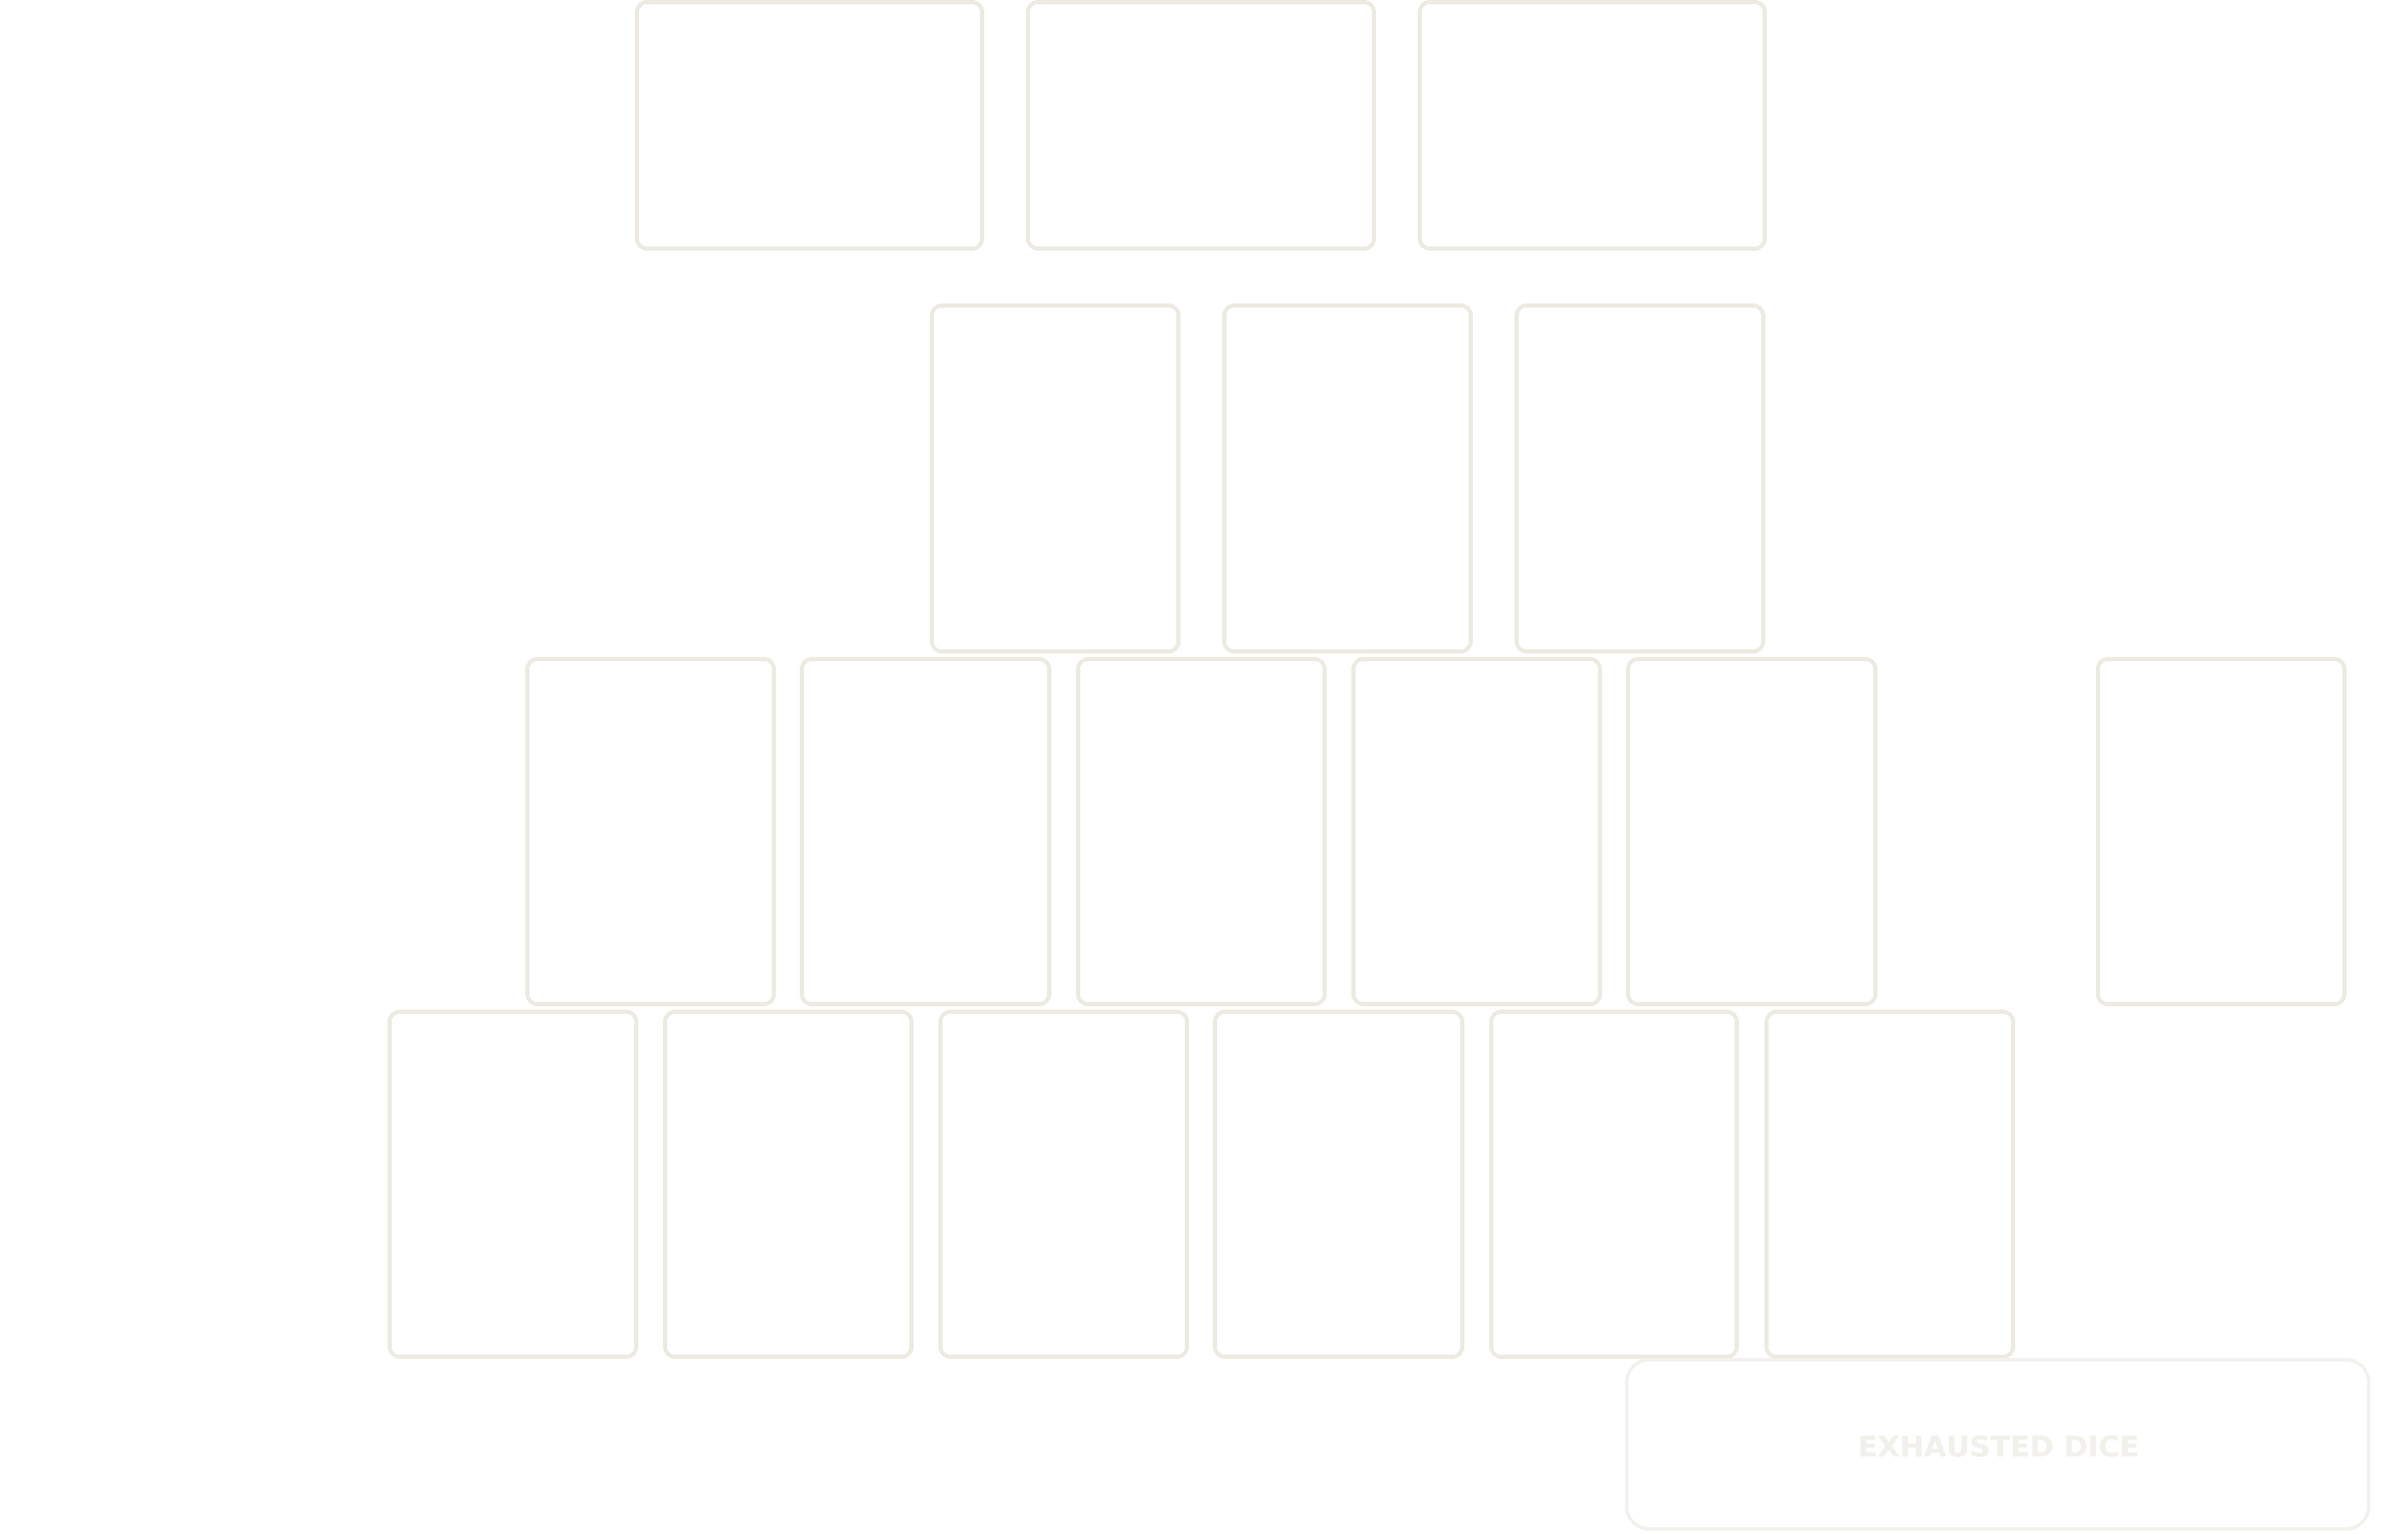
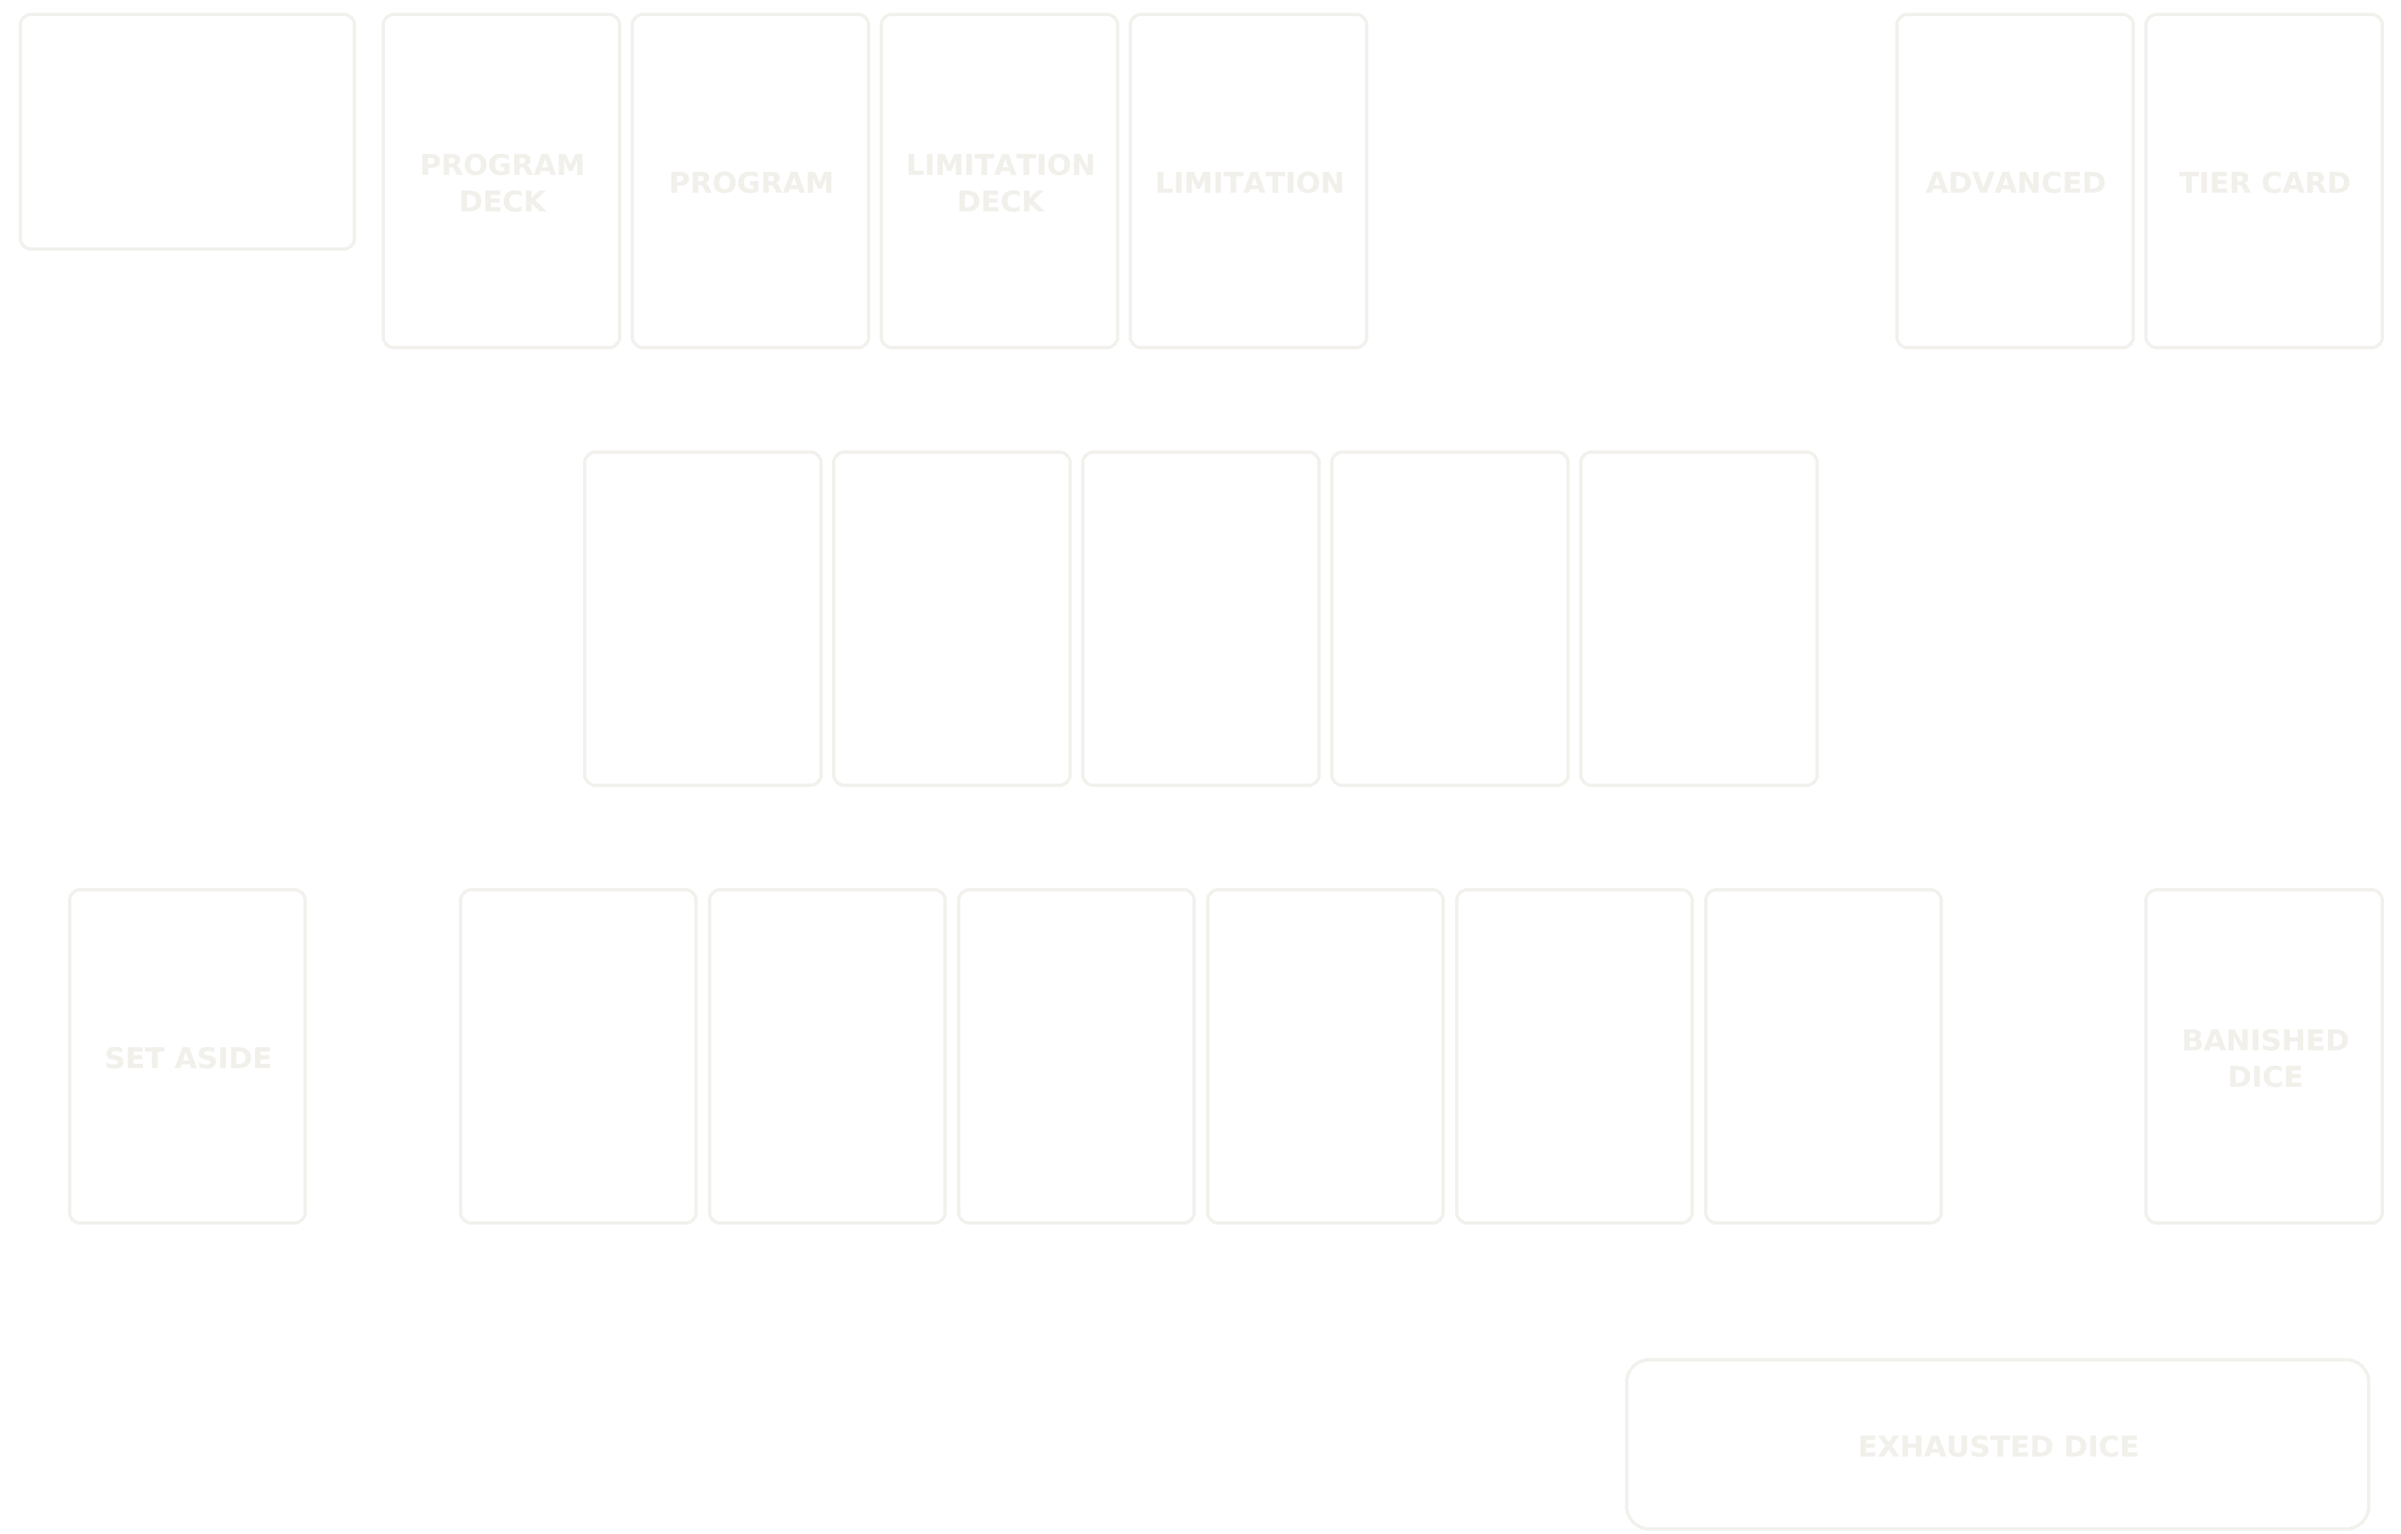
The AoS table, laid out like BAT's
FIVE ELEMENT MATS ACROSS THE MIDDLE, because that is where the dice go
and it is the only part of this game that needs room around it: every
element must receive at least one die and holds up to its Target plus
one. The decks and the two cards they reveal run along the top; what a
tier adds, the Programs finished with and the banished dice run along
the bottom.

AoS is a game with a turn rather than a board - reveal a Program,
reveal a Limitation, allocate, roll, set the Program aside - so the
spaces that matter are the two decks, the two cards face-up beside
them, and somewhere for what is done with. The Advanced Programs sit
out at the end of the row because they are for the finale, not for
every turn.

The Technicians are one stack on the character space now, the way NAP's
Apprentices are, rather than three cards spread across the table: Keep
1/2/3 takes the one you want out of it. The space is landscape and
LIFTED to share its top edge with the portrait spaces beside it - the
same relation BAT uses between a Lab Rat and its Upgrades, the other
way round, and the sign was wrong until the harness said so.

aosBoxes() is both what the overlay is painted from and what the snap
points are made from, so a box on the felt and a space you can drop
onto cannot disagree.

TWO CONSTANTS BECAME DERIVED. BAT_COL and AOS_COL were 5.86 typed out;
they are CARD_W less a hair, which is what the comment already said
they were, and now they follow the card scale. The check that every
[…]

diff --git a/tts/test_setup.py b/tts/test_setup.py
@@ -722,6 +722,15 @@ def layout_assertions():
                     exp = (rows * ups + 3 + 3 + int(g.BAT_SPLICES)
                            + 2 * rows + 2
                            + len(list(g.BUFF_CELL.values())))
+                elif which == "AoS":
+                    # The Technician, the two decks and the two
+                    # cards they reveal, the Advanced Programs and
+                    # whatever a tier lays face-up beside them; the
+                    # five element mats; and along the bottom the
+                    # Programs finished with, the six Backdoor
+                    # Routines and the banished dice.
+                    exp = (1 + 4 + 2 + int(g.AOS_MATS)
+                           + 1 + int(g.AOS_BACKDOORS) + 1)
                 else:
                     exp = 0
                 want(t + " spaces laid", len(w.snaps), exp)
@@ -1356,6 +1365,70 @@ def bat_assertions():
     want("...and prints nothing in red", w.errors[:2], [])
 
 
+def aos_assertions():
+    """The AoS table.
+
+    FIVE ELEMENT MATS ACROSS THE MIDDLE, because that is where the
+    dice go: every element must receive at least one die and an
+    element holds up to its Target plus one, so that row is the only
+    part of this table that needs room around it. The decks and the
+    two cards they reveal run along the top, what a tier adds along
+    the bottom.
+    """
+    w, g = start("Standard", 3, Panel())
+    w.lossy = 3
+    g.setupAoS()
+    drain(w)
+    by = dict((o.name, o) for o in w.table.values())
+    boxes = [(float(b.x), float(b.z), float(b.hw), float(b.hd))
+             for b in g.aosBoxes().values()]
+    over = [(a, b) for i, a in enumerate(boxes) for b in boxes[i + 1:]
+            if abs(a[0] - b[0]) < a[2] + b[2] - 0.02
+            and abs(a[1] - b[1]) < a[3] + b[3] - 0.02]
+    want("no two AoS spaces overlap", over[:2], [])
+    felt = g.FELT
+    off = [b for b in boxes
+           if b[0] - b[2] < float(felt.x0) or b[0] + b[2] > float(felt.x1)
+           or b[1] - b[3] < float(felt.z0) or b[1] + b[3] > float(felt.z1)]
+    want("no AoS space runs off the felt", off[:2], [])
+
+    def at(name, x, z):
+        o = by.get(name)
+        return (o is not None
+                and abs(o.pos[0] - x) < 0.05 and abs(o.pos[2] - z) < 0.05)
+
+    # THE TECHNICIAN IS A STACK ON ONE SPACE, not three cards across
+    # the table: Keep 1/2/3 takes the one you want out of it.
+    techs = [o for o in w.table.values() if o.name.startswith("Technician")]
+    want("the Technicians are one stack on the character space",
+         (len(techs), len(techs[0].kids) if techs else 0), (1, 3))
+    want("...level with the decks beside it",
+         round(techs[0].pos[2] + float(g.CARD_W) / 2, 2) if techs else None,
+         round(float(g.AOS_ROW1) + float(g.CARD_L) / 2, 2))
+    want("the Program deck and the Limitations are on their spaces",
+         (at("Specialized Programs", float(g.aosCol(int(g.AOS_PROGRAMS))),
+             float(g.AOS_ROW1))
+          or at("Routine Programs", float(g.aosCol(int(g.AOS_PROGRAMS))),
+                float(g.AOS_ROW1)),
+          at("Limitations", float(g.aosCol(int(g.AOS_LIMITS))),
+             float(g.AOS_ROW1))),
+         (True, True))
+    want("the Advanced Programs are out at the end of the row",
+         at("Advanced Programs", float(g.AOS_RIGHT) - float(g.AOS_COL),
+            float(g.AOS_ROW1)), True)
+    mats = sorted(o.pos[0] for o in w.table.values()
+                  if o.name.startswith("Element Mat"))
+    want("the five element mats are a row across the middle",
+         [round(x, 2) for x in mats],
+         [round(float(g.aosMid(k, int(g.AOS_MATS))), 2)
+          for k in range(1, int(g.AOS_MATS) + 1)])
+    want("...all on the same row",
+         sorted(set(round(o.pos[2], 2) for o in w.table.values()
+                    if o.name.startswith("Element Mat"))),
+         [round(float(g.AOS_ROW2), 2)])
+    want("AoS prints nothing in red", w.errors[:2], [])
+
+
 def chip_face_assertions():
     """Two objects, read two ways, and neither has to be flipped.
 
@@ -1843,6 +1916,7 @@ def main():
     in_the_bag_assertions()
     overlay_assertions()
     bat_assertions()
+    aos_assertions()
     chip_face_assertions()
     buff_lock_assertions()
     pile_assertions()

diff --git a/tts/make_template.py b/tts/make_template.py
@@ -282,10 +282,40 @@ def draw_bat(d, lua):
     circle(d, float(g.BAT_CHIP_X), float(g.BAT_CHIP_Z), 1.1)
 
 
+def draw_aos(d, lua):
+    """AoS'S SPACES COME FROM THE SCRIPT, the way BAT's do.
+
+    aosBoxes() is the list the setup makes its snap points from, so a
+    box on the felt and a space you can drop onto cannot disagree.
+    Everything is labelled except the five element mats, which say what
+    they are on the card itself.
+    """
+    g = lua.globals()
+    for b in g.aosBoxes().values():
+        card(d, float(b.x), float(b.z), float(b.hw), float(b.hd),
+             PEN["snap"], 4)
+    col = lambda k: float(g.aosCol(k))
+    r1, r3 = float(g.AOS_ROW1), float(g.AOS_ROW3)
+    fit = float(g.AOS_BOX_HW) * 1.8
+    label(d, "PROGRAM\nDECK", col(1), r1, fit=fit)
+    label(d, "PROGRAM", col(2), r1, fit=fit)
+    label(d, "LIMITATION\nDECK", col(3), r1, fit=fit)
+    label(d, "LIMITATION", col(4), r1, fit=fit)
+    label(d, "ADVANCED", float(g.AOS_RIGHT) - float(g.AOS_COL), r1, fit=fit)
+    # The space a tier lays its one face-up card on, which is empty
+    # and unexplained at tier 0.
+    label(d, "TIER CARD", float(g.AOS_RIGHT), r1, fit=fit)
+    label(d, "SET ASIDE", float(g.AOS_TECH_X), r3, fit=fit)
+    label(d, "BANISHED\nDICE", float(g.AOS_RIGHT), r3, fit=fit)
+
+
 def draw_game(d, which, slots_out=None):
     fp, snaps, w, lua = places_for(which)
     if which == "BAT":
         draw_bat(d, lua)
+        return fp
+    if which == "AoS":
+        draw_aos(d, lua)
         return fp
     # NAP OUTLINES WHERE YOU PUT THINGS, NOT WHERE THE GAME PUTS THEM.
     # A box under the Time Slot, the Assignment deck, the Apprentice or

diff --git a/generator/check_app_sync.py b/generator/check_app_sync.py
@@ -1941,10 +1941,20 @@ check("tts/lua.lua spaces the table in card widths, not literals",
 # checks down, which is why the stripped copy exists at all.
 _code_only = chr(10).join(l.split("--")[0] for l in _lua.splitlines())
 _calls = [m.start() for m in re.finditer(r"spread\(", _code_only)]
+# A NAMED PITCH COUNTS TOO. What this is against is a bare number
+# for the gap between cards in a row; CARD_W + 0.6 is one way to
+# say it and AOS_COL - itself CARD_W less a hair - is another. A
+# literal is still a literal.
 _bare = [_code_only[i:i + 60].split(chr(10))[0]
-         for i in _calls if "CARD_" not in _code_only[i:i + 220]]
+         for i in _calls
+         if not re.search(r"CARD_|_COL|_PITCH|_GAP",
+                          _code_only[i:i + 220])]
+# THE FLOOR IS SO IT CANNOT PASS ON AN EMPTY SET, not a count of
+# what happens to be there: it was 6 and AoS went from spreading
+# three Technicians across the table to stacking them on one
+# space, which is a better layout and left five.
 check("every row is spaced in card widths",
-      len(_calls) >= 6 and not _bare,
+      len(_calls) >= 4 and not _bare,
       "%d call(s), bare: %r" % (len(_calls), _bare))
 # TTS drops objects fed to a bag faster than it animates them, which left
 # exactly one card on the table after every setup. tts/test_setup.py
